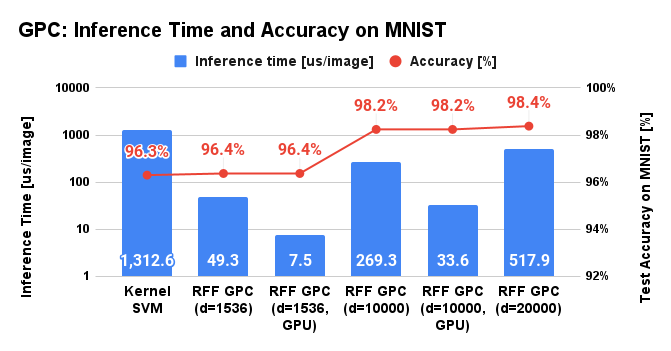
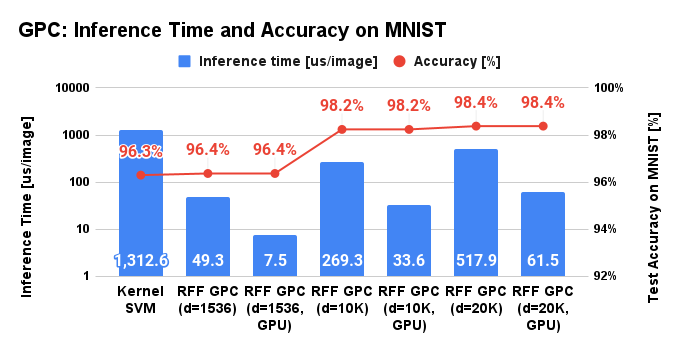
Update: add GPU inference of RFFGPC (d=20K) on MNIST

diff --git a/rfflearn/gpu/rfflearn_gpu_gp.py b/rfflearn/gpu/rfflearn_gpu_gp.py
@@ -57,18 +57,21 @@ class GPR(Base):
         return self
 
     ### Inference of Gaussian process using GPU.
-    ###   - X_cpu (np.array, shape = [N, K]): inference data
-    ###   - var   (boolean, scalar)         : returns variance vector if true
-    ###   - cov   (boolean, scalar)         : returns covariance matrix if true
+    ###   - X_cpu       (np.array, shape = [N, K]): inference data
+    ###   - return_std  (boolean, scalar)         : returns standard deviation vector if true
+    ###   - return_cov  (boolean, scalar)         : returns covariance matrix if true
+    ###   - precision   (torch.dtype)             : precision of the matrices on GPU
     ### where N is the number of training data and K is dimension of the input data.
-    def predict(self, X_cpu, return_std = False, return_cov = False):
+    def predict(self, X_cpu, return_std = False, return_cov = False, precision = torch.float32):
 
         ### Move matrix to GPU.
-        X = torch.tensor(X_cpu,  device = self.dev, dtype = torch.float64)
-        W = torch.tensor(self.W, device = self.dev, dtype = torch.float64)
-        b = torch.tensor(self.b, device = self.dev, dtype = torch.float64)
-        a = torch.tensor(self.a, device = self.dev, dtype = torch.float64)
-        S = torch.tensor(self.S, device = self.dev, dtype = torch.float64)
+        ### 64bit precision is necessary for training, however,
+        ### 32bit precision is enough for inference in most cases.
+        X = torch.tensor(X_cpu,  device = self.dev, dtype = precision)
+        W = torch.tensor(self.W, device = self.dev, dtype = precision)
+        b = torch.tensor(self.b, device = self.dev, dtype = precision)
+        a = torch.tensor(self.a, device = self.dev, dtype = precision)
+        S = torch.tensor(self.S, device = self.dev, dtype = precision)
 
         ### Calculate mean of the prediction distribution.
         F = torch.cos(torch.matmul(X, W) + b).t()

diff --git a/examples/gpc_for_mnist/README.md b/examples/gpc_for_mnist/README.md
@@ -71,6 +71,7 @@ In my computing environment (CPU: Intel Core i5-9300H, RAM: 32GB, GPU: GeForce G
 | GPC w/ RFF | 10000   | CPU       |  96.95 sec          |  269.3 us           | 98.24 %   | 0.1        | 0.5       |
 | GPC w/ RFF | 10000   | GTX1660Ti |      -              |   33.6 us           | 98.24 %   | 0.1        | 0.5       |
 | GPC w/ RFF | 20000   | CPU       | 516.19 sec          |  517.9 us           | 98.38 %   | 0.1        | 0.5       |
+| GPC w/ RFF | 20000   | GTX1660Ti |      -              |   61.2 us           | 98.38 %   | 0.1        | 0.5       |
 
 <div align="center">
   <img src="./figures/figure_inference_time_and_accuracy_on_MNIST.png" width="671" height="351" alt="Inference Time vs Accuracy on MNIST" />
